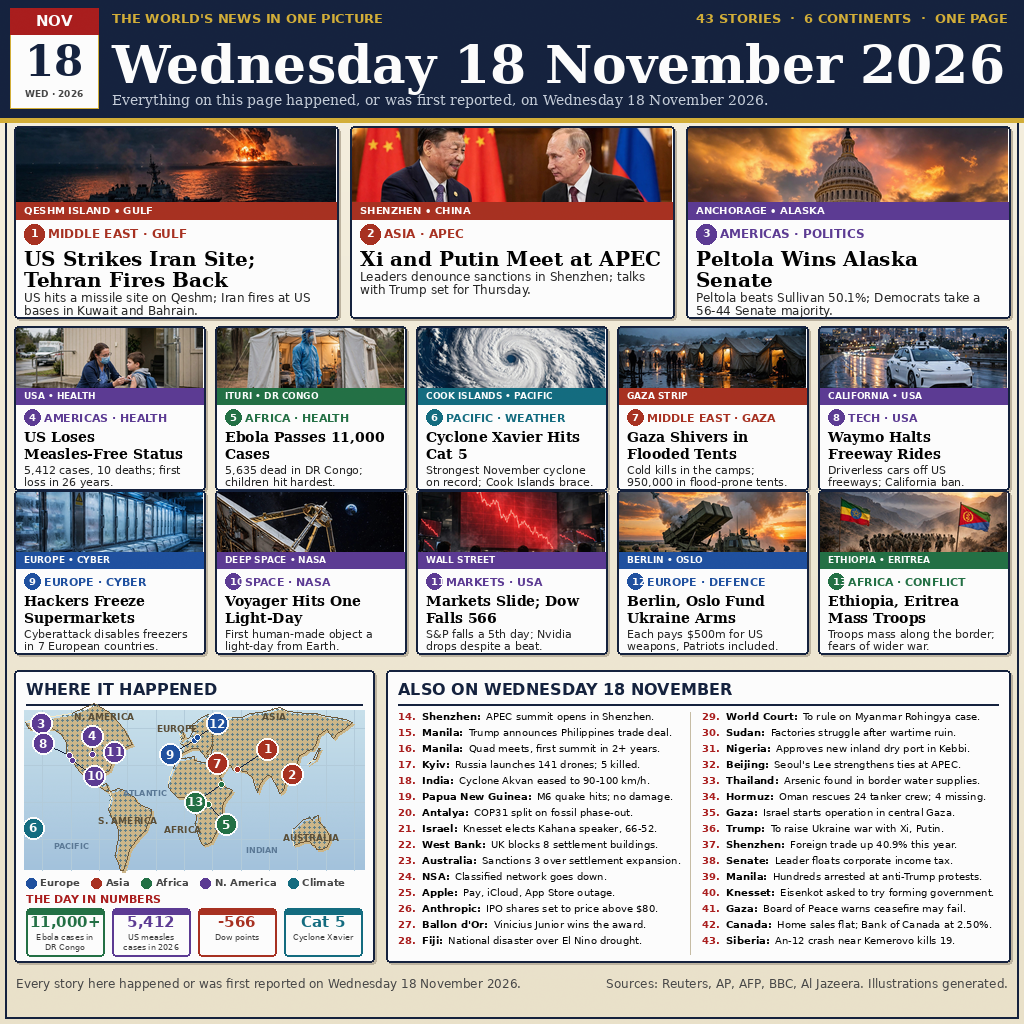
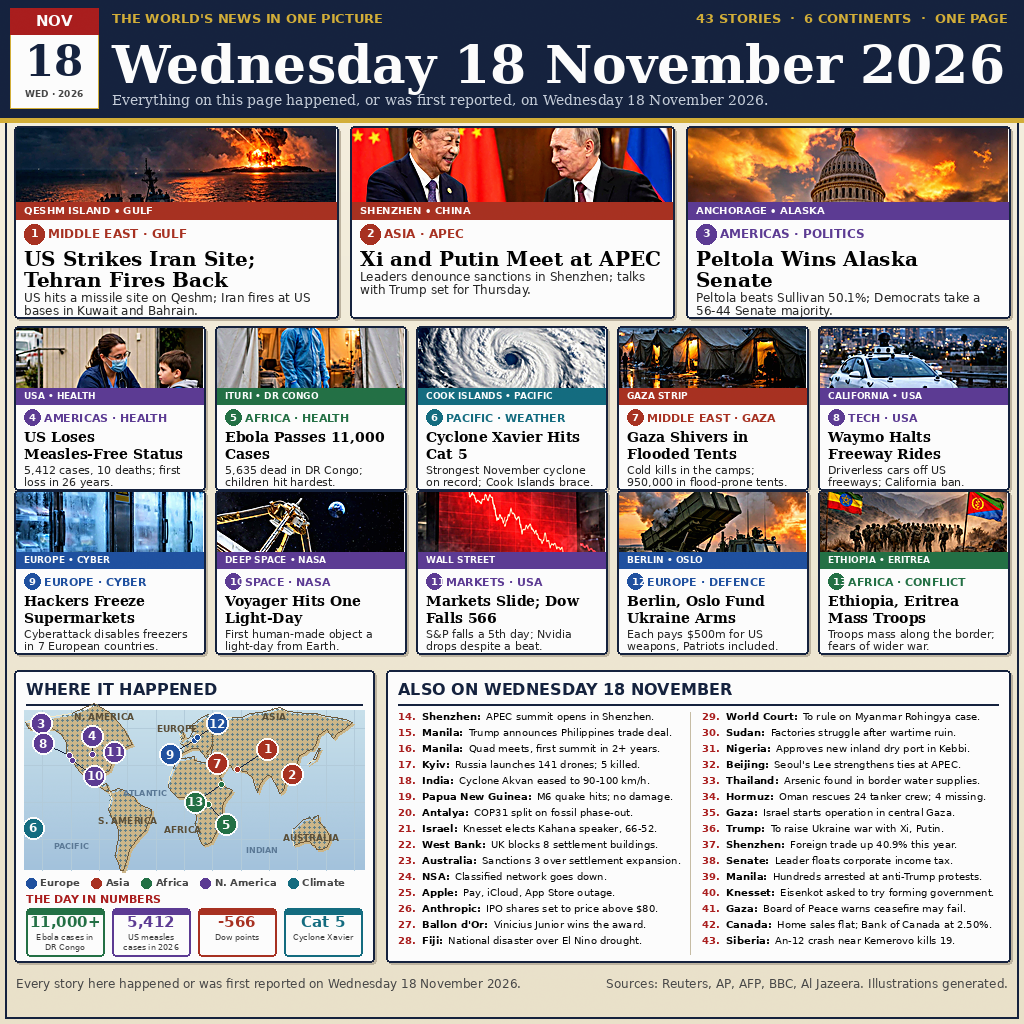
Revise: sharper photos — tight subject crops, UnsharpMask, contrast/saturation lift, dark panels brightened

diff --git a/tools/generate-image.py b/tools/generate-image.py
@@ -3,15 +3,13 @@
 
 A newspaper front page for Wednesday 18 November 2026: masthead,
 giant serif date, 13 numbered story panels in 3 rows, a world map
-with numbered pins, a 30-item "also" index, and a stat strip. Four
-panels (1 Gulf, 2 APEC, 3 Senate, 10 Voyager) use generated
-photographs from assets/ instead of drawings; the other nine panels
-are drawn with Pillow. All headlines, drawings and words are my own.
+with numbered pins, a 30-item "also" index, and a stat strip. All 13
+panels use generated photographs from assets/ instead of drawings.
 Deterministic: a fixed seed and fixed photo crops, so every run
 writes identical bytes.
 Run: python3 tools/generate-image.py
 """
-from PIL import Image, ImageDraw, ImageFont
+from PIL import Image, ImageDraw, ImageFont, ImageEnhance, ImageFilter
 import math
 import os
 import random
@@ -361,45 +359,60 @@ d.text((112, 92), _sub, font=font(SERIF, 14), fill=(198, 206, 218))
 # ---------- generated photos: real photographs composited into all 13 panels ----------
 # The photos live in assets/ (committed to the repo) so the generator
 # runs offline and deterministically: same files, same fixed crops,
-# same bytes every run. Each entry is (file, focus): focus is the
-# fraction of the spare vertical range to skip when centre-cropping
-# the photo to the panel's wide aspect ratio, so the main subject
-# (explosion + warship, the two leaders' faces, the Capitol dome,
-# the nurse + child, the PPE worker, the cyclone eye, the lit tents,
-# the driverless car, the frosted freezers, the dish + Earth, the
-# falling red chart, the launcher, the troops + flags) is never cut off.
+# same bytes every run. Each entry is (file, fy, zoom, fx, bright):
+# fy is the fraction of the spare vertical range to skip when
+# centre-cropping the photo to the panel's wide aspect ratio; zoom is
+# the fraction of the photo's width to keep (zoom < 1 crops tighter
+# onto the main subject, so it reads big and clear even in a 60px-tall
+# panel); fx is the horizontal centre of that crop as a fraction of
+# the photo width; bright lifts dark photos. Subjects were located by
+# inspecting each source photo: explosion + warship, the two leaders'
+# faces, the Capitol dome, the nurse + child, the PPE worker, the
+# cyclone eye, the lit tents, the driverless car, the frosted freezers
+# + warning sign, the dish + Earth, the falling red chart, the
+# launcher, the troops + flags.
 PHOTOS = {
-    "gulf": ("panel1-gulf.jpg", 0.70),
-    "apec": ("panel2-apec.jpg", 0.30),
-    "senate": ("panel3-capitol.jpg", 0.10),
-    "measles": ("panel4-measles.jpg", 0.60),
-    "ebola": ("panel5-ebola.jpg", 0.35),
-    "cyclone": ("panel6-xavier.jpg", 0.50),
-    "gaza": ("panel7-gaza.jpg", 0.45),
-    "waymo": ("panel8-waymo.jpg", 0.45),
-    "cyber": ("panel9-freezer.jpg", 0.30),
-    "voyager": ("panel10-voyager.jpg", 0.30),
-    "markets": ("panel11-markets.jpg", 0.35),
-    "patriot": ("panel12-patriot.jpg", 0.40),
-    "border": ("panel13-border.jpg", 0.40),
+    "gulf": ("panel1-gulf.jpg", 0.65, 0.85, 0.50, 1.05),
+    "apec": ("panel2-apec.jpg", 0.35, 0.90, 0.50, 1.00),
+    "senate": ("panel3-capitol.jpg", 0.15, 0.90, 0.50, 1.00),
+    "measles": ("panel4-measles.jpg", 0.55, 0.55, 0.45, 1.00),
+    "ebola": ("panel5-ebola.jpg", 0.45, 0.60, 0.50, 1.00),
+    "cyclone": ("panel6-xavier.jpg", 0.50, 0.70, 0.50, 1.00),
+    "gaza": ("panel7-gaza.jpg", 0.50, 0.70, 0.65, 1.05),
+    "waymo": ("panel8-waymo.jpg", 0.35, 0.65, 0.65, 1.00),
+    "cyber": ("panel9-freezer.jpg", 0.30, 0.55, 0.30, 1.14),
+    "voyager": ("panel10-voyager.jpg", 0.30, 0.70, 0.62, 1.18),
+    "markets": ("panel11-markets.jpg", 0.35, 0.70, 0.50, 1.08),
+    "patriot": ("panel12-patriot.jpg", 0.45, 0.70, 0.50, 1.00),
+    "border": ("panel13-border.jpg", 0.55, 0.85, 0.50, 1.00),
 }
 _photo_cache = {}
 
 
 def paste_photo(kind, x, y, w, h):
-    fname, fy = PHOTOS[kind]
+    fname, fy, zoom, fx, bright = PHOTOS[kind]
     if kind not in _photo_cache:
         _photo_cache[kind] = Image.open(
             os.path.join(BASE, "assets", fname)).convert("RGB")
     src = _photo_cache[kind]
     sw, sh = src.size
     target = w / h
-    cw, ch = sw, int(sw / target)
+    # tight crop onto the subject: keep zoom of the width, then fit
+    # the panel aspect inside that window
+    cw = int(sw * zoom)
+    ch = int(cw / target)
     if ch > sh:
         ch, cw = sh, int(sh * target)
+    left = int(fx * sw - cw / 2)
+    left = max(0, min(sw - cw, left))
     top = int((sh - ch) * fy) if ch < sh else 0
-    left = (sw - cw) // 2
     crop = src.crop((left, top, left + cw, top + ch)).resize((w, h), Image.LANCZOS)
+    # sharpen + lift colour/contrast so the photo still reads at 60px
+    if bright != 1.0:
+        crop = ImageEnhance.Brightness(crop).enhance(bright)
+    crop = ImageEnhance.Color(crop).enhance(1.18)
+    crop = ImageEnhance.Contrast(crop).enhance(1.12)
+    crop = crop.filter(ImageFilter.UnsharpMask(radius=2, percent=85, threshold=2))
     img.paste(crop, (x, y))
 
 
